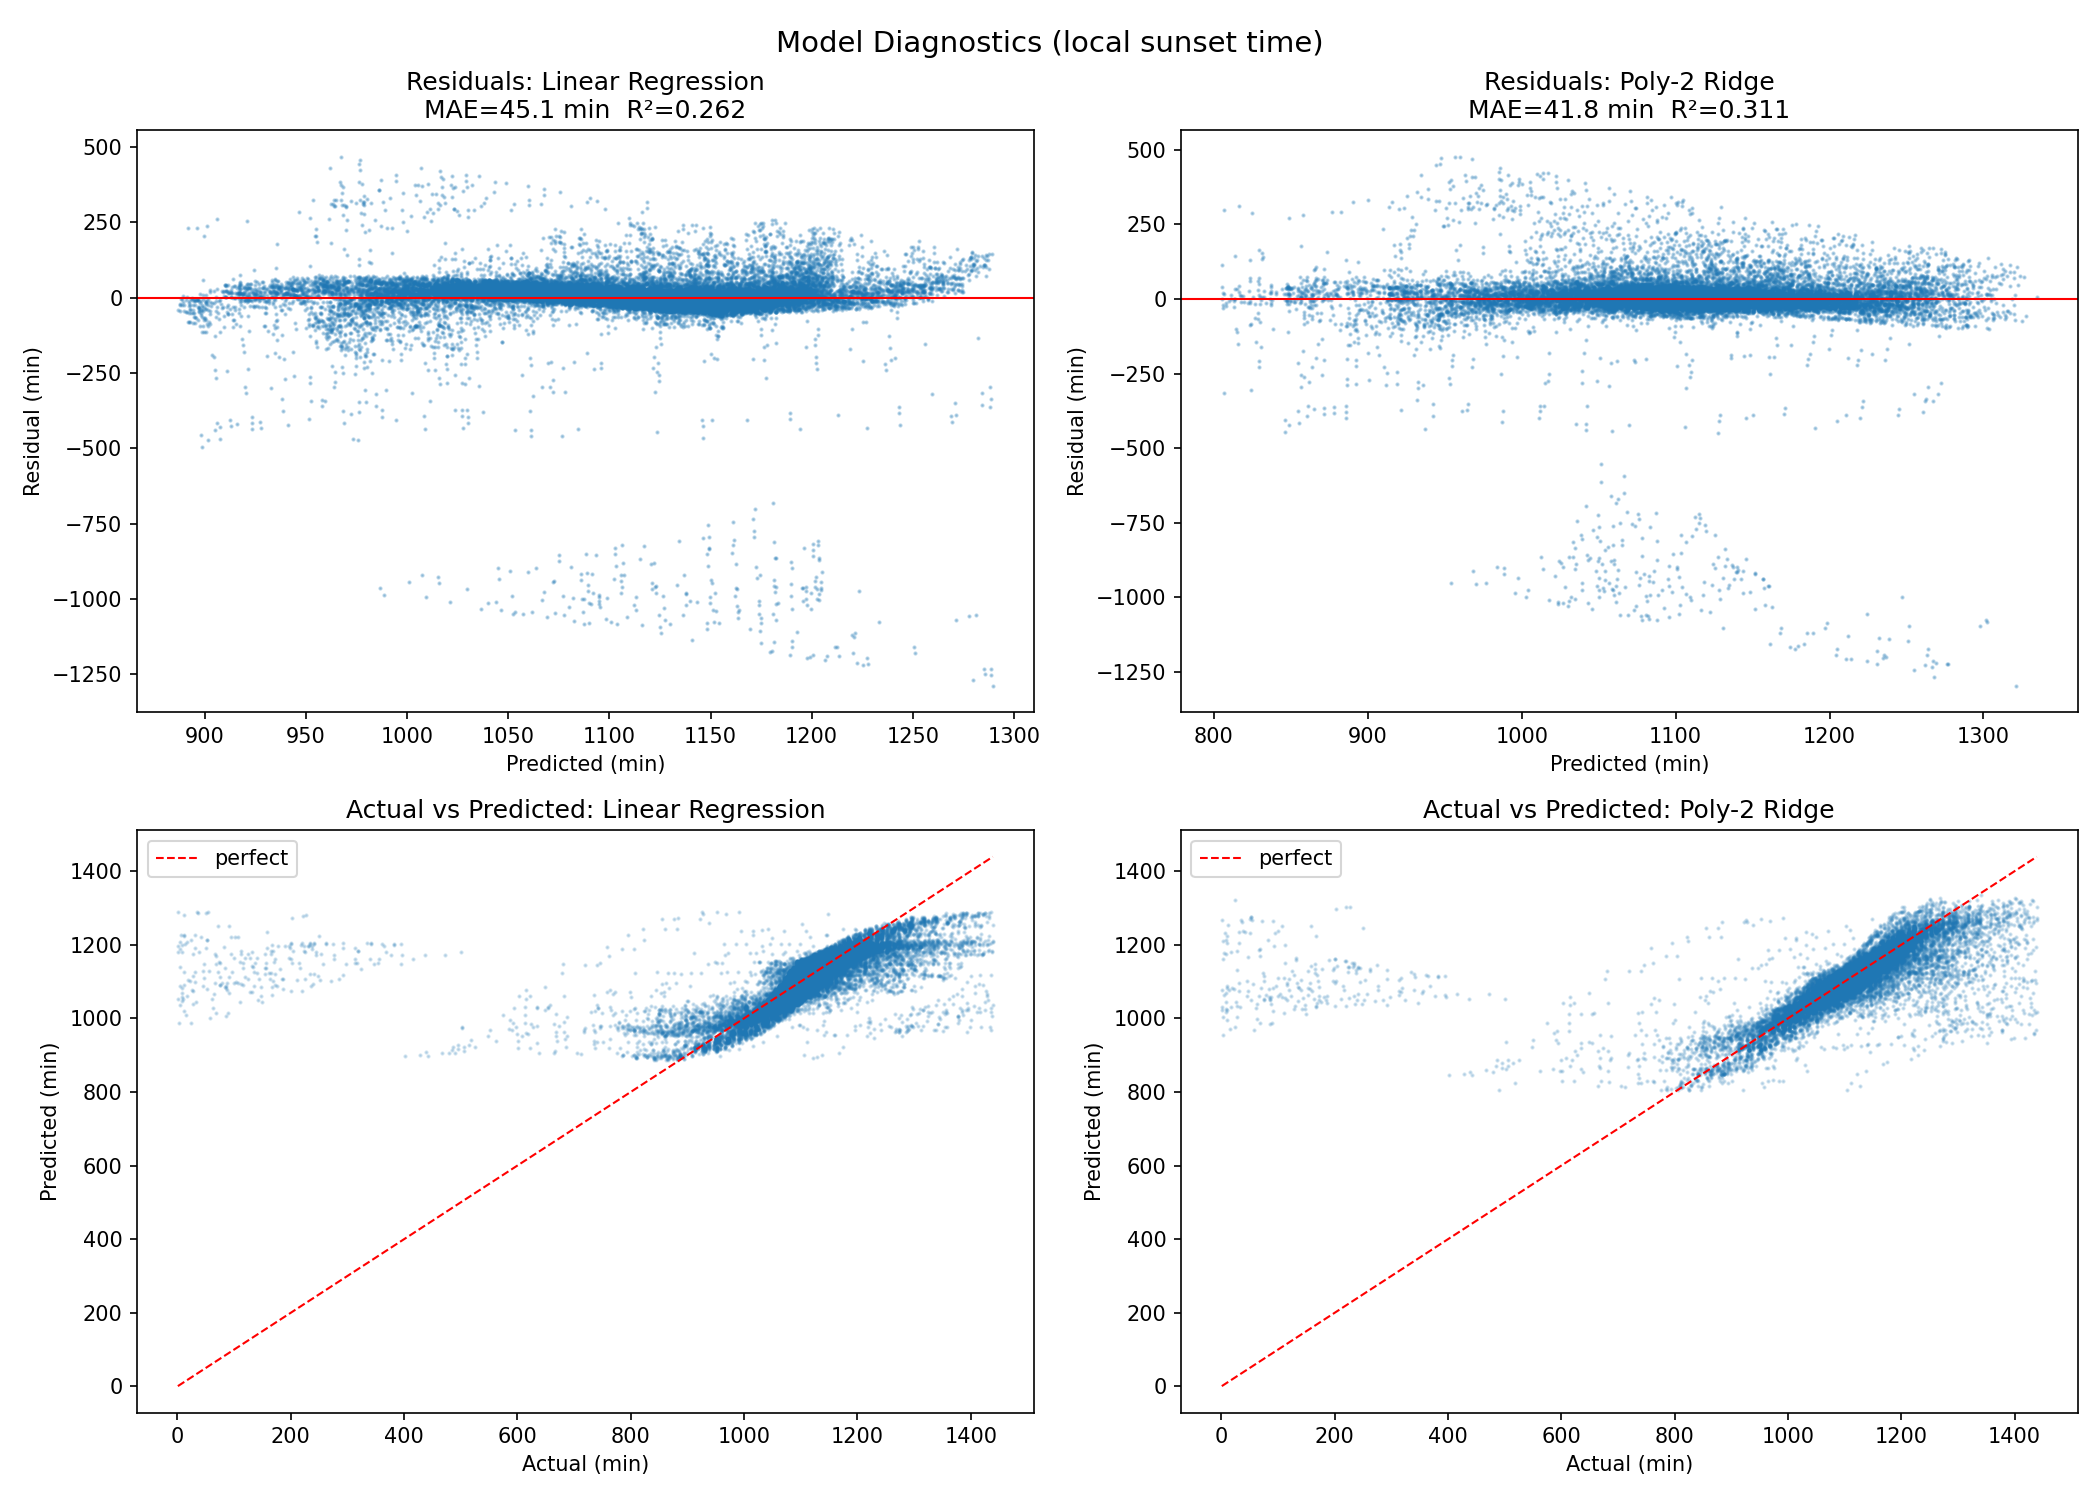
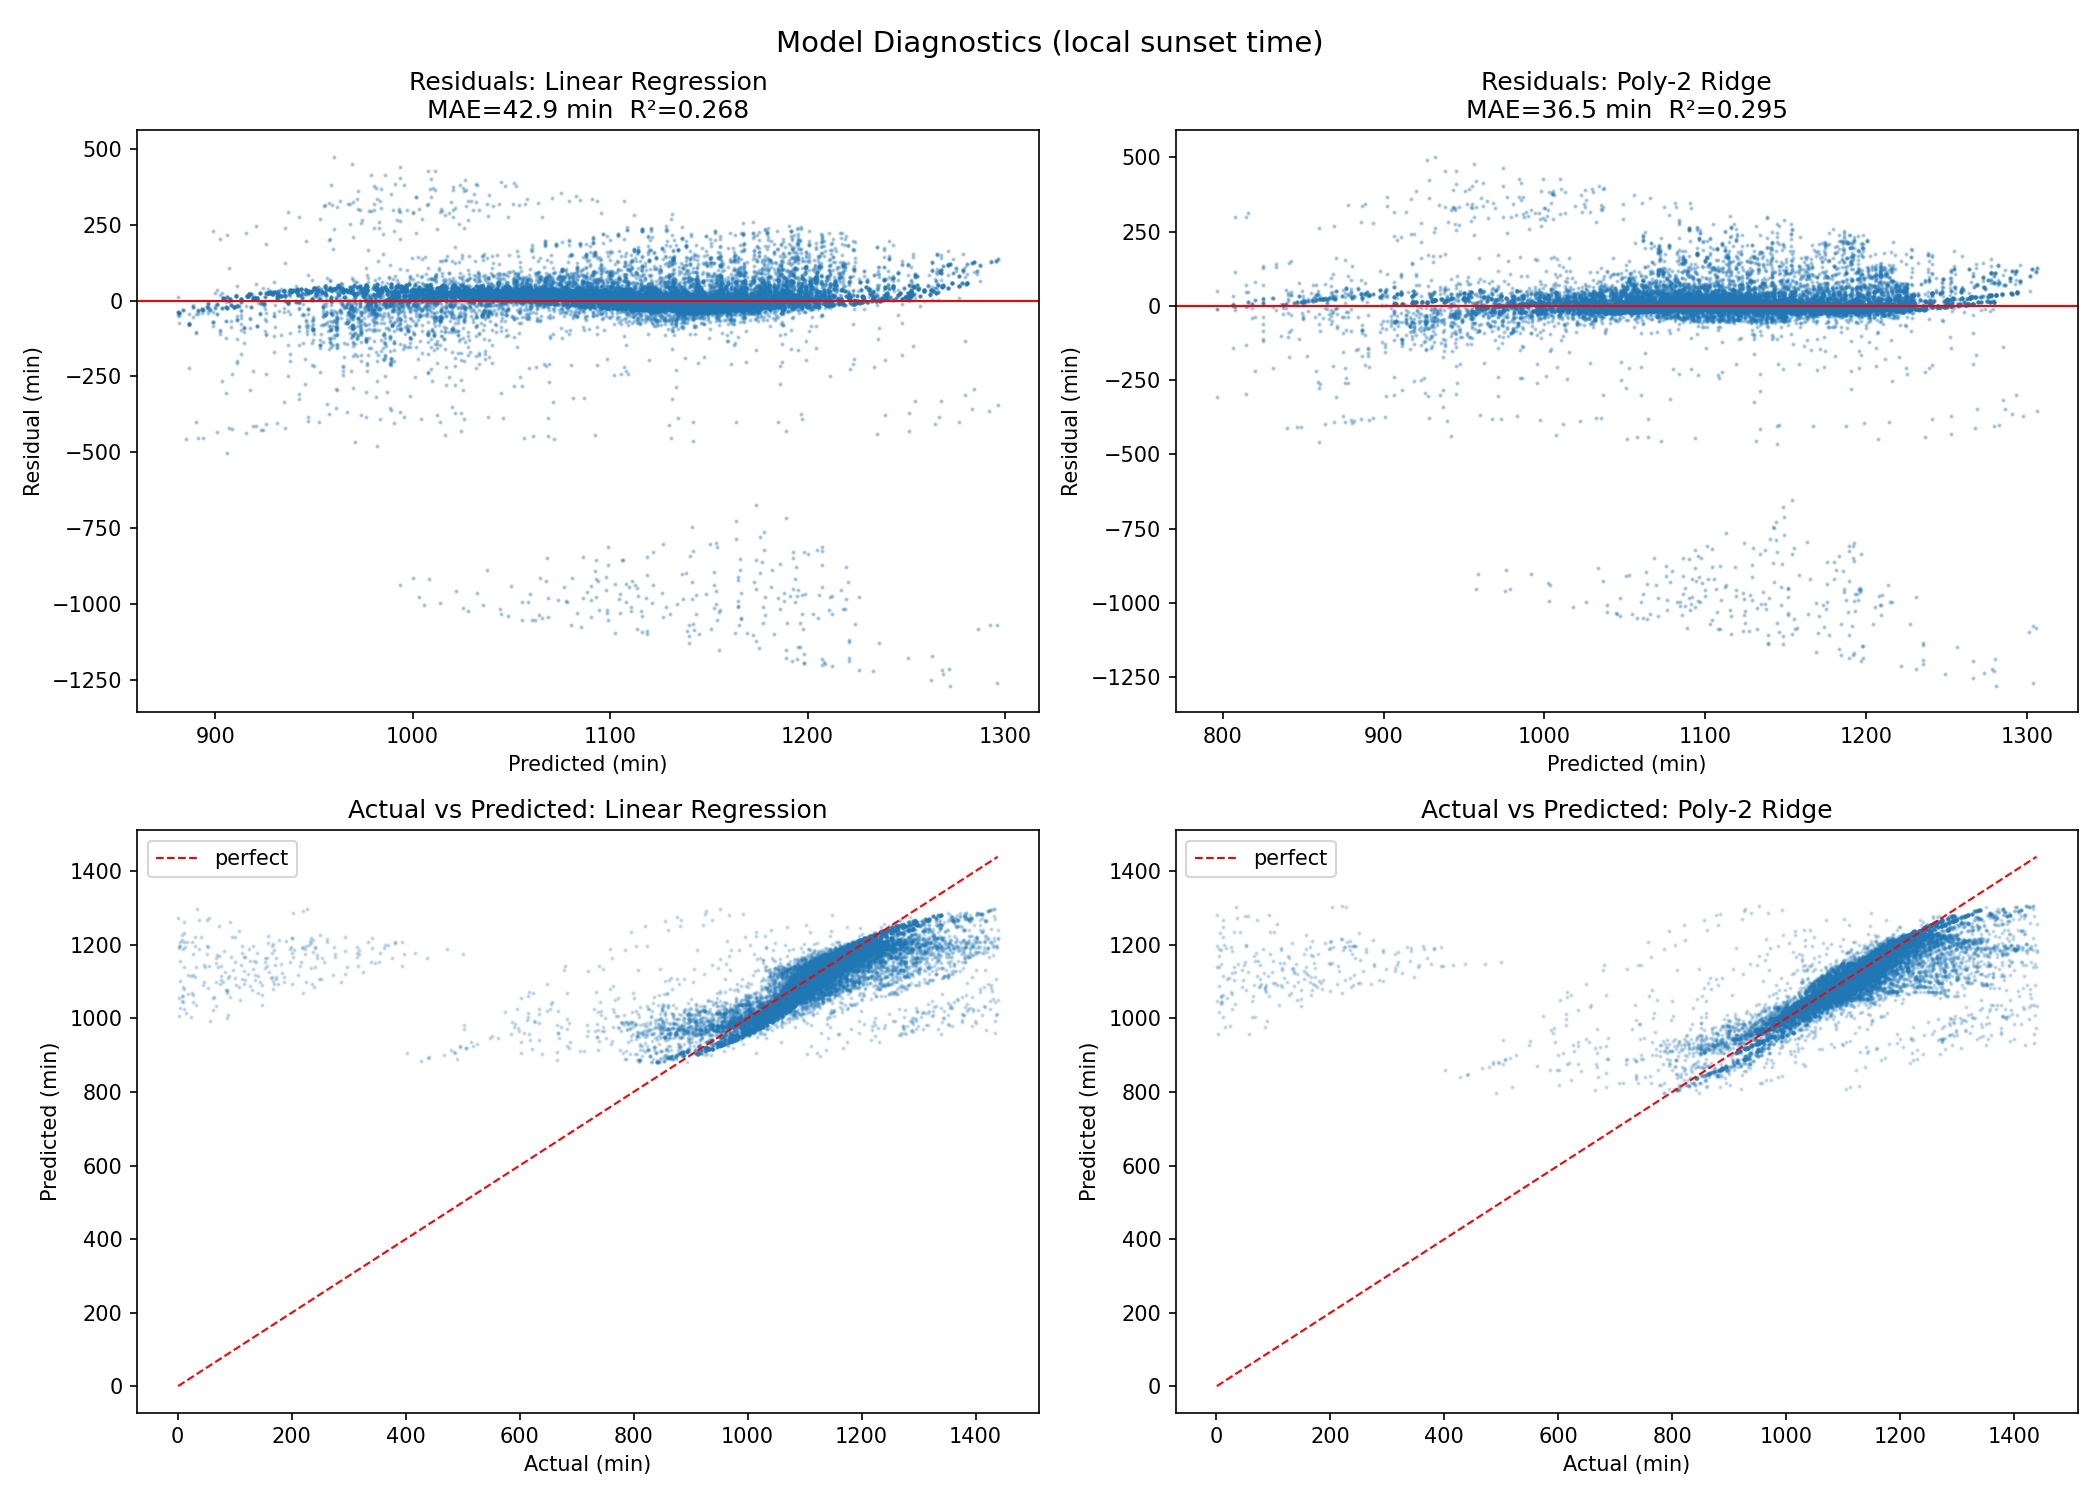
feat: Update model training script and regenerate diagnostic plots.

diff --git a/explore_and_model.py b/explore_and_model.py
@@ -148,6 +148,8 @@ else:
 #   - lat × day_sin/cos         : seasonal swing scales with latitude
 #   - lat² × day_sin/cos        : non-linearity at extreme latitudes
 #   - abs_lat                   : symmetric latitude effect on avg day length
+#   - tz_offset                 : longitude offset from timezone center
+#                                 (within a timezone, further west → later sunset)
 
 # Trig encoding of annual cycle
 df["day_sin"] = np.sin(2 * np.pi * df["day_of_year"] / 365.25)
@@ -162,6 +164,10 @@ df["lat2_x_day_sin"] = (df["latitude"] ** 2) * df["day_sin"]
 df["lat2_x_day_cos"] = (df["latitude"] ** 2) * df["day_cos"]
 
 df["abs_lat"] = df["latitude"].abs()
+
+# Longitude offset from timezone center (timezones centered at 0, ±15, ±30, ...)
+# Range: [-7.5, +7.5] degrees.  Positive = east of center → earlier local sunset.
+df["tz_offset"] = ((df["longitude"] + 7.5) % 15) - 7.5
 
 print("\n" + "=" * 60)
 print("FEATURE SUMMARY")
@@ -238,7 +244,7 @@ print("\n✓ Saved EDA plots → eda_plots.png")
 
 feature_cols = [
     "latitude",
-    "longitude",
+    "tz_offset",
     "day_sin",
     "day_cos",
     "lat_x_day_sin",
@@ -357,6 +363,7 @@ print()
 
 pa_lat, pa_lon = 37.4, -122.14
 pa_doy = 59  # Feb 28
+pa_tz_offset = ((pa_lon + 7.5) % 15) - 7.5
 
 pa_day_sin = np.sin(2 * np.pi * pa_doy / 365.25)
 pa_day_cos = np.cos(2 * np.pi * pa_doy / 365.25)
@@ -364,7 +371,7 @@ pa_x = np.array(
     [
         [
             pa_lat,
-            pa_lon,
+            pa_tz_offset,
             pa_day_sin,
             pa_day_cos,
             pa_lat * pa_day_sin,
